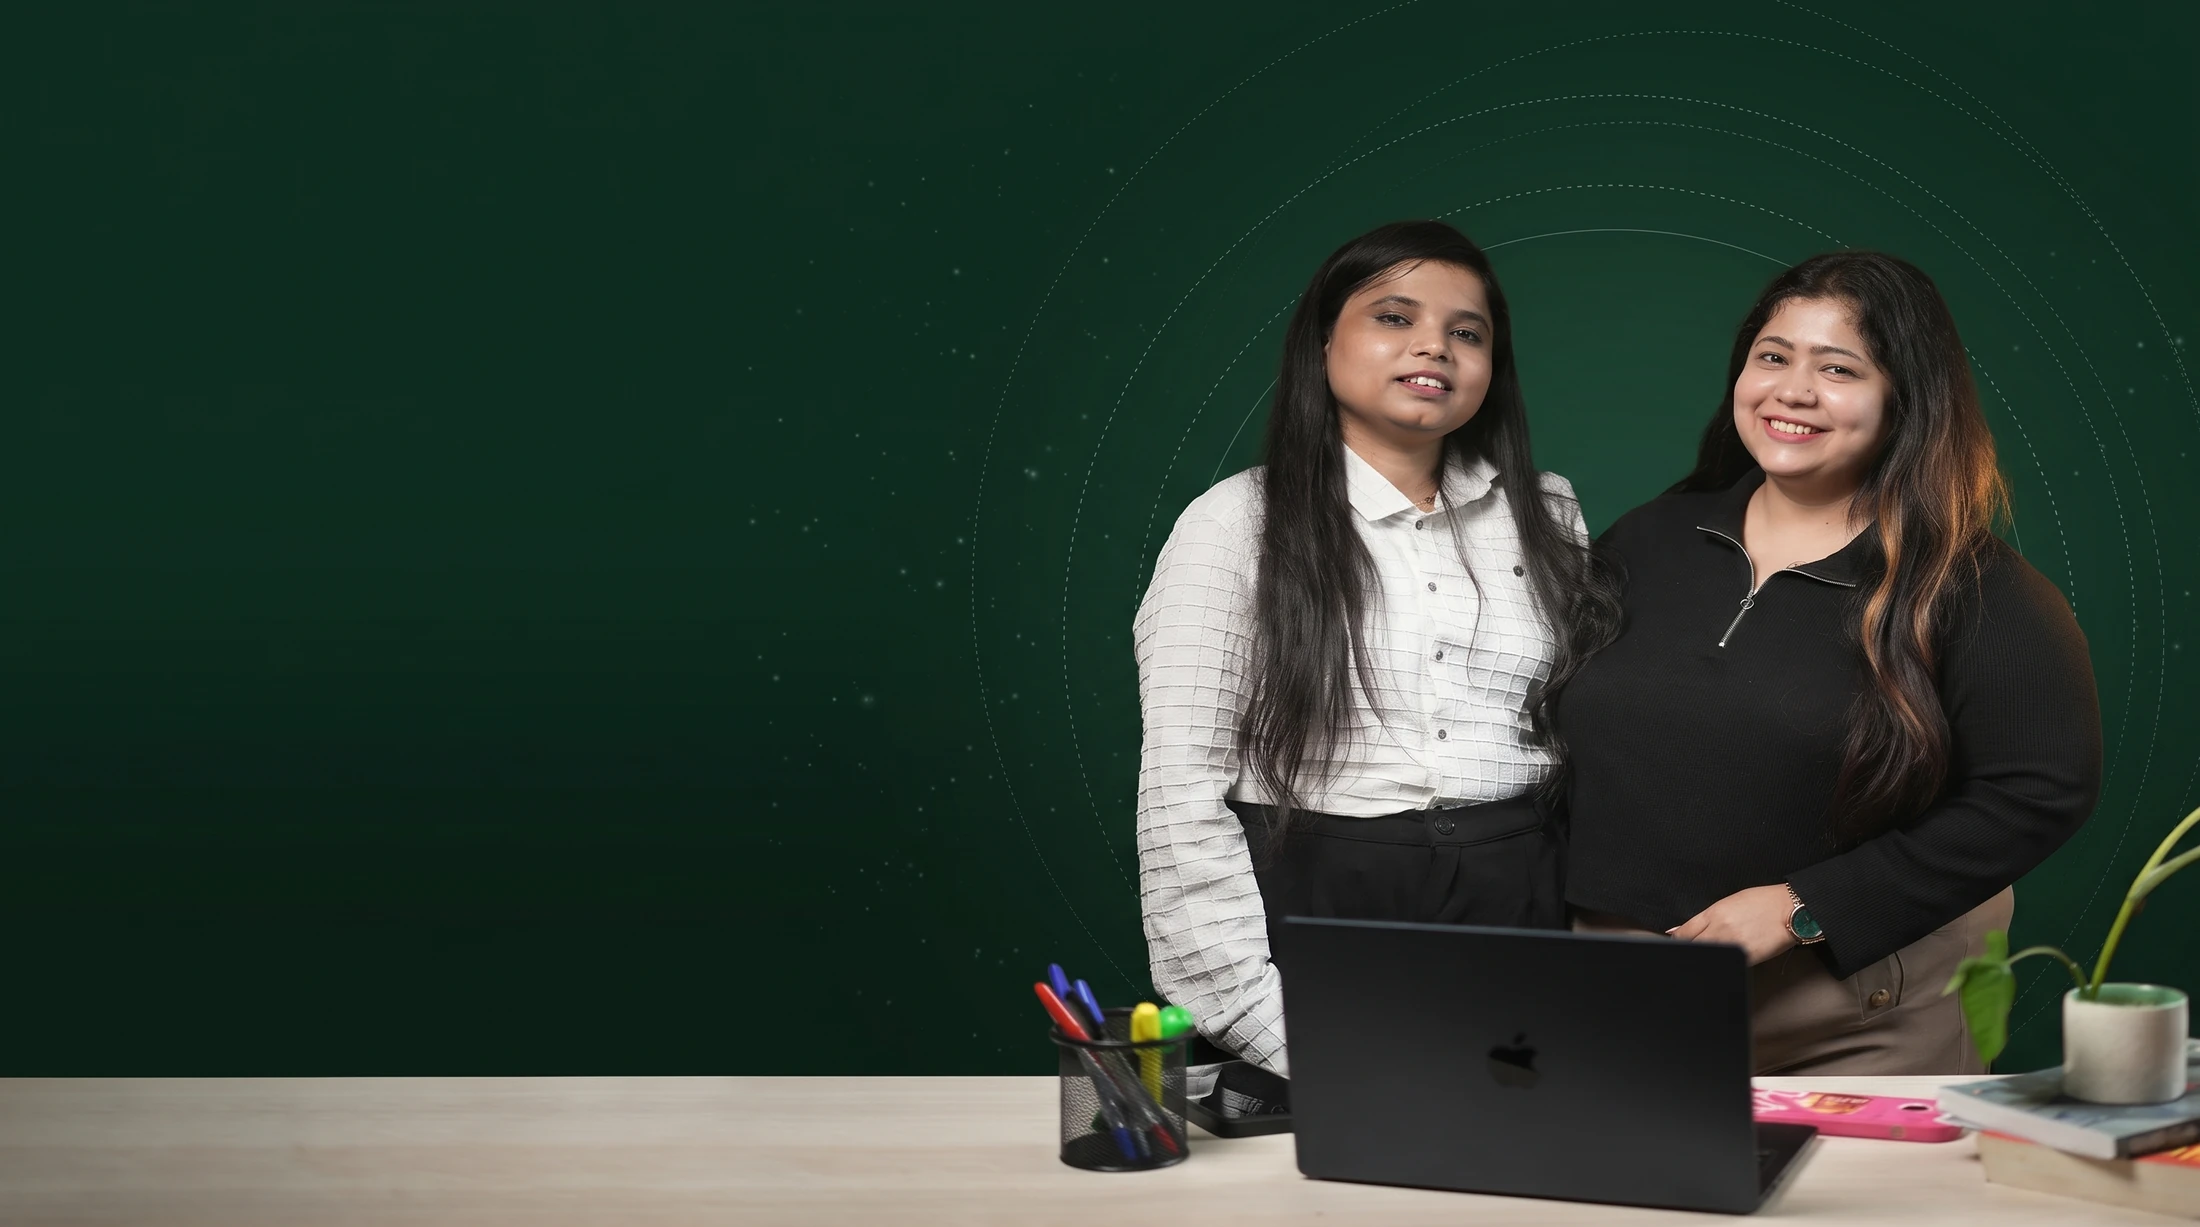
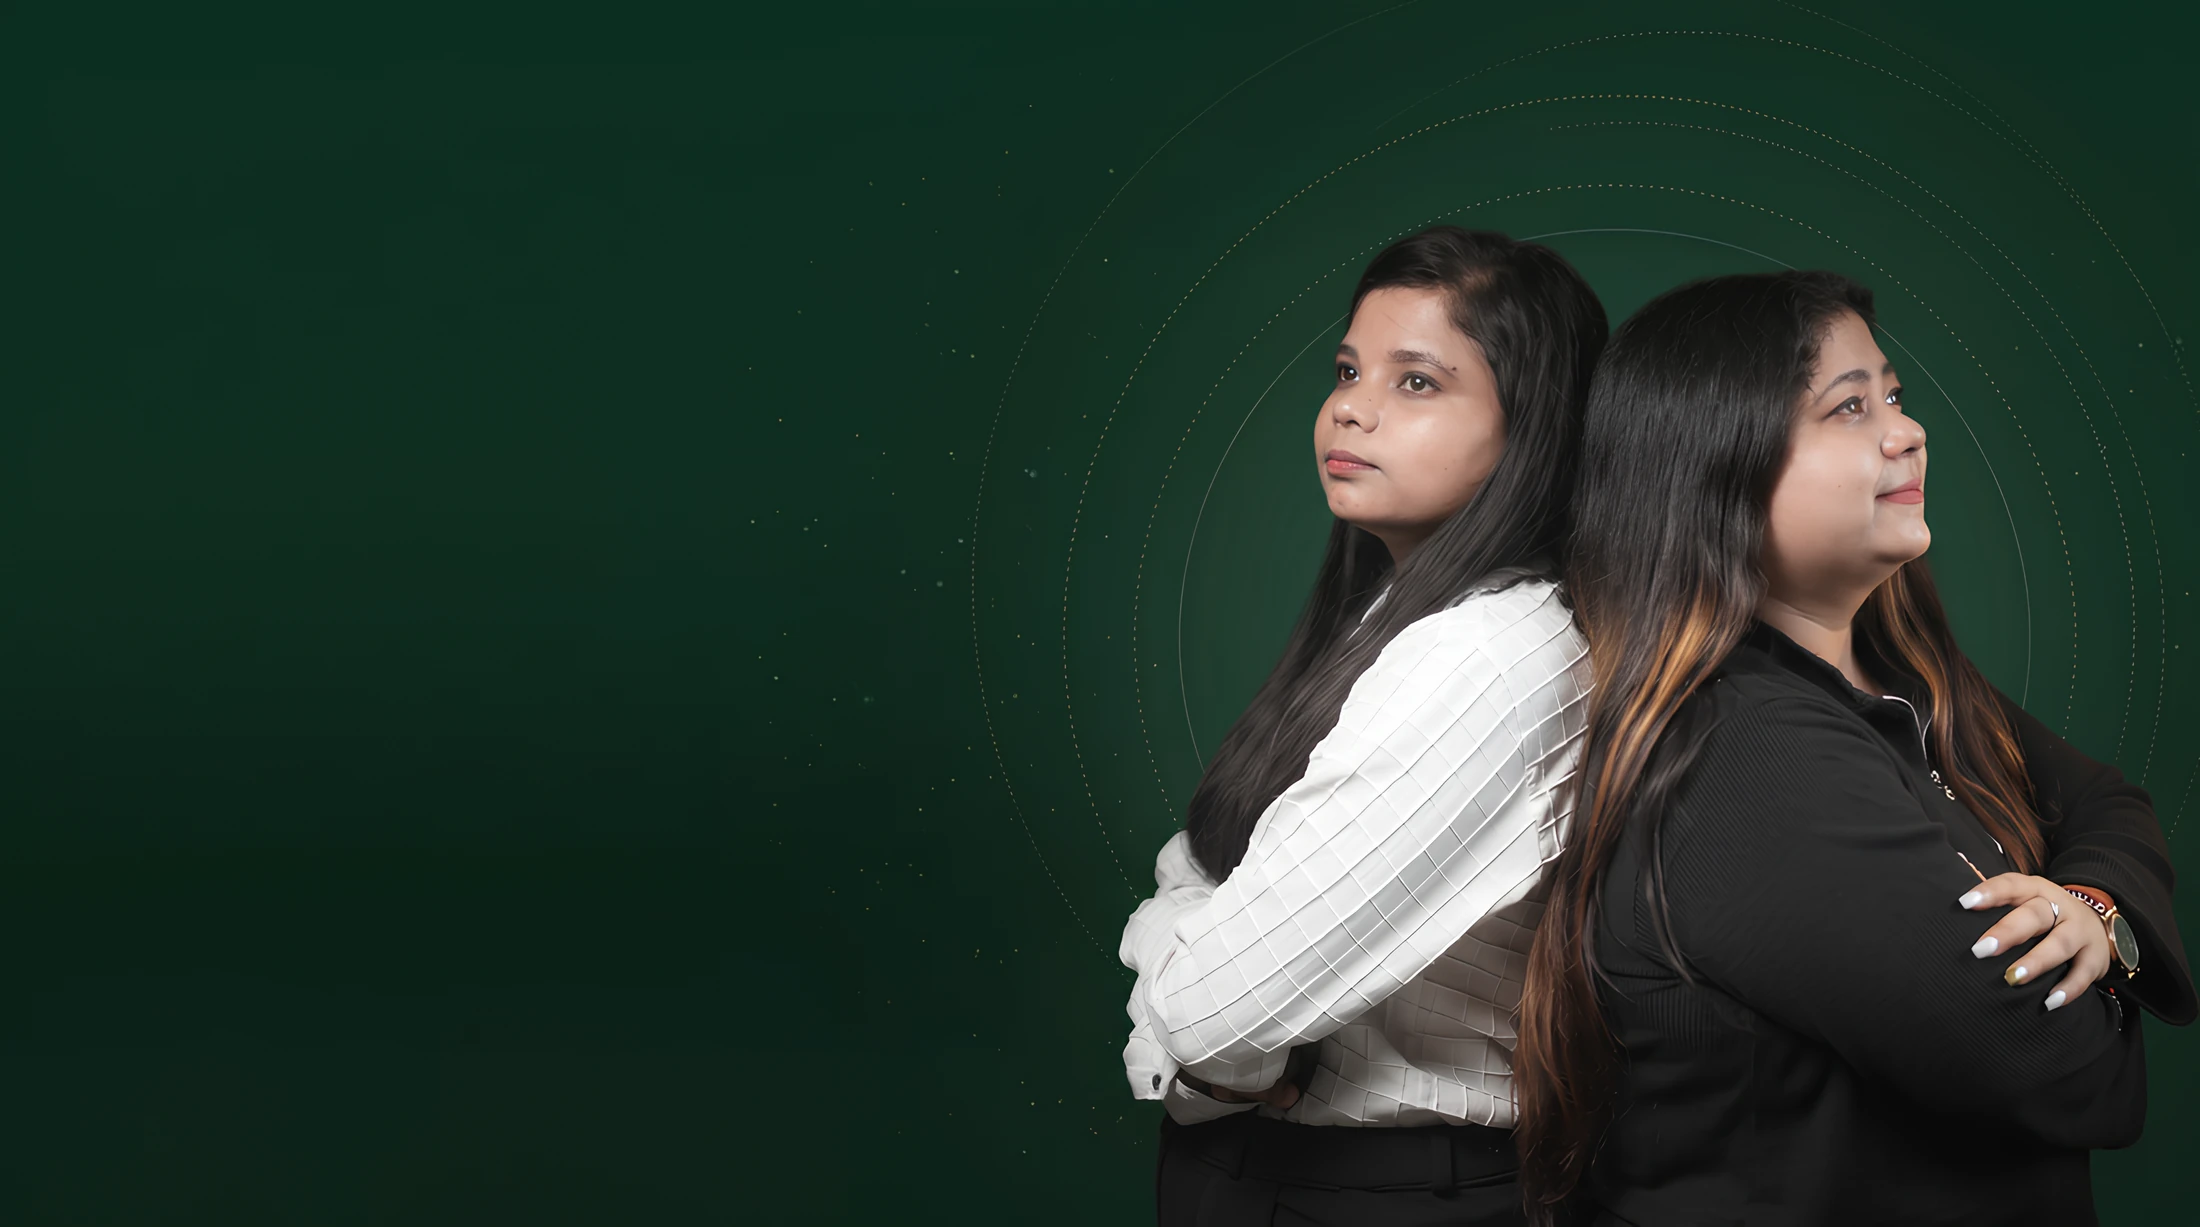
chore: update hero visuals with responsive 9:16 mobile portrait, contact details, and Surbhi credentials

diff --git a/src/scenes/Hero.tsx b/src/scenes/Hero.tsx
@@ -41,20 +41,6 @@ export default function HeroSection() {
         },
       );
 
-      // Mobile card entrance
-      gsap.fromTo(
-        '.hero-mobile-card',
-        { opacity: 0, y: 28, scale: 0.98 },
-        {
-          opacity: 1,
-          y: 0,
-          scale: 1,
-          duration: 1.1,
-          ease: 'cubic-bezier(0.22, 1, 0.36, 1)',
-          delay: 0.8,
-        },
-      );
-
       // Scroll indicator pulse
       gsap.to('.hero-scroll', {
         y: 6,
@@ -75,38 +61,46 @@ export default function HeroSection() {
       <section
         ref={root}
         id="home"
-        className="relative min-h-[100dvh] w-full overflow-hidden bg-[#0B221A] flex flex-col justify-between"
+        className="relative min-h-[max(100dvh,820px)] lg:min-h-[100dvh] w-full overflow-hidden bg-[#0B221A] flex flex-col justify-between"
       >
-        {/* ── 1. Desktop Full-Bleed 16:9 Background Image (>= lg screens) ─── */}
-        <div className="hidden lg:block absolute inset-0 z-0">
-          <img
-            src="/hero-bg.webp"
-            alt="Dt. Radha Mishra and Dt. Surbhi Kumari at The Diets consultation desk"
-            width="2200"
-            height="1227"
-            className="w-full h-full object-cover object-right-bottom"
-            style={{ objectPosition: 'right bottom' }}
-            loading="eager"
-            // @ts-ignore
-            fetchpriority="high"
-            decoding="async"
+        {/* ── 1. Responsive Full-Bleed Background (9:16 Mobile / 16:9 Desktop) ─── */}
+        <div className="absolute inset-0 z-0 pointer-events-none">
+          <picture className="hero-picture-wrap lg:block w-full h-full">
+            <source media="(max-width: 1023px)" srcSet="/hero-bg-mobile.webp" width="1080" height="1935" />
+            <img
+              src="/hero-bg.webp"
+              alt="Dt. Radha Mishra and Dt. Surbhi Kumari at The Diets consultation desk"
+              width="2200"
+              height="1227"
+              className="hero-picture-img lg:w-full lg:h-full lg:object-cover lg:object-right-bottom"
+              loading="eager"
+              // @ts-ignore
+              fetchpriority="high"
+              decoding="async"
+            />
+          </picture>
+
+          {/* Subtle top emerald blend on mobile for clean text legibility */}
+          <div
+            className="lg:hidden absolute inset-x-0 top-0 h-[42%] z-[1] bg-gradient-to-b from-[#0B221A] via-[#0B221A]/50 to-transparent pointer-events-none"
+            aria-hidden="true"
           />
 
           {/* Subtle Left-to-Right Gradient Overlay on desktop */}
           <div
-            className="absolute inset-0 z-[1] bg-gradient-to-r from-[#0B221A] via-[#0B221A]/80 to-transparent lg:via-transparent pointer-events-none"
+            className="hidden lg:block absolute inset-0 z-[1] bg-gradient-to-r from-[#0B221A] via-[#0B221A]/80 to-transparent lg:via-transparent pointer-events-none"
             aria-hidden="true"
           />
 
           {/* Subtle bottom ground vignette */}
           <div
-            className="absolute inset-x-0 bottom-0 h-28 z-[2] bg-gradient-to-t from-[#0B221A] to-transparent pointer-events-none"
+            className="absolute inset-x-0 bottom-0 h-20 lg:h-28 z-[2] bg-gradient-to-t from-[#0B221A] to-transparent pointer-events-none"
             aria-hidden="true"
           />
         </div>
 
         {/* ── 2. Content Layout Grid (Responsive on all screen sizes) ───── */}
-        <div className="relative z-10 mx-auto flex flex-1 w-full max-w-7xl flex-col items-start justify-center px-6 pt-24 pb-28 md:px-12 md:pt-32 lg:flex-row lg:items-center lg:justify-between lg:pb-16">
+        <div className="relative z-10 mx-auto flex flex-1 w-full max-w-7xl flex-col items-start justify-start lg:justify-center px-6 pt-[88px] sm:pt-28 pb-12 md:px-12 md:pt-32 lg:flex-row lg:items-center lg:justify-between lg:pb-16">
 
           {/* ── Left Column Content (w-full lg:w-[48%]) ─────────────────── */}
           <div className="relative z-10 w-full lg:w-[48%] flex flex-col justify-center text-left">
@@ -167,13 +161,13 @@ export default function HeroSection() {
             </h1>
 
             {/* Sub-headline / Body */}
-            <p className="hero-fade mt-5 max-w-xl text-base leading-relaxed text-[#AEB7B0] md:text-[17px] font-sans font-normal">
+            <p className="hero-fade mt-4 lg:mt-5 max-w-xl text-base leading-relaxed text-[#AEB7B0] md:text-[17px] font-sans font-normal">
               Calm, practical clinical nutrition paced around your real schedule and
               kitchen—led 1-on-1 by Radha Mishra and Surbhi Kumari.
             </p>
 
             {/* CTAs */}
-            <div className="hero-fade mt-8 flex flex-col items-start gap-4 sm:flex-row sm:items-center">
+            <div className="hero-fade mt-6 lg:mt-8 flex flex-col items-start gap-3 sm:gap-4 sm:flex-row sm:items-center">
               {/* Primary CTA: Translucent glass pill */}
               <Link
                 to="/book"
@@ -196,7 +190,7 @@ export default function HeroSection() {
             </div>
 
             {/* Subtext: Meet the Dietitians */}
-            <div className="hero-fade mt-5">
+            <div className="hero-fade mt-3.5 lg:mt-5">
               <a
                 href="#meet"
                 className="group inline-flex items-center gap-1.5 text-xs text-[#AEB7B0]/65 transition-colors duration-300 hover:text-[#AEB7B0]"
@@ -205,39 +199,6 @@ export default function HeroSection() {
                 <span className="text-xs transition-transform duration-300 group-hover:translate-y-0.5">↓</span>
               </a>
             </div>
-          </div>
-
-          {/* ── 3. Dedicated Mobile & Tablet Visual Card (< lg screens) ─── */}
-          {/* Prominently showcases both dietitians on mobile view without awkward cropping */}
-          <div className="hero-mobile-card block lg:hidden w-full max-w-md mt-8 mx-auto">
-            <div className="relative h-[270px] sm:h-[330px] w-full rounded-2xl overflow-hidden border border-white/20 shadow-[0_20px_50px_rgba(0,0,0,0.7)] bg-[#071914]">
-              <img
-                src="/hero-bg.webp"
-                alt="Dt. Surbhi Kumari and Dt. Radha Mishra at The Diets consultation desk"
-                width="2200"
-                height="1227"
-                className="w-full h-full object-cover"
-                style={{ objectPosition: '77% 25%' }}
-                loading="eager"
-                // @ts-ignore
-                fetchpriority="high"
-                decoding="async"
-              />
-
-              {/* Gradient vignette on card */}
-              <div
-                className="absolute inset-0 bg-gradient-to-t from-[#0B221A]/90 via-transparent to-transparent pointer-events-none"
-                aria-hidden="true"
-              />
-            </div>
-
-            {/* Dietitian name tag under mobile card */}
-            <p
-              className="mt-3 text-center text-xs tracking-wider text-[#AEB7B0]/80"
-              style={{ fontFamily: "'Fraunces', Georgia, serif" }}
-            >
-              Radha Mishra &amp; Surbhi Kumari
-            </p>
           </div>
         </div>
 

diff --git a/src/data/siteConfig.ts b/src/data/siteConfig.ts
@@ -11,15 +11,15 @@ export const siteConfig = {
     tagline: "Your Health, Your Goals, Your Personalised Nutrition Journey.",
     logoUrl: "/logo.png",
     faviconUrl: "/favicon.png",
-    whatsappUrl: "https://wa.me/918340735168?text=Hi%2C%20I%20would%20like%20to%20book%20a%20consultation%20with%20The%20Diets",
-    whatsappDisplay: "+91 83407 35168",
-    email: "thedeits4you@gmail.com",
+    whatsappUrl: "https://wa.me/919296047483?text=Hi%2C%20I%20would%20like%20to%20book%20a%20consultation%20with%20The%20Diets.",
+    whatsappDisplay: "+91 92960 47483",
+    email: "thediets4you@gmail.com",
   },
   contact: {
-    phone: "+91 83407 35168",
-    phoneRaw: "+918340735168",
-    email: "thedeits4you@gmail.com",
-    whatsappUrl: "https://wa.me/918340735168?text=Hi%2C%20I%20would%20like%20to%20book%20a%20consultation%20with%20The%20Diets",
+    phone: "+91 92960 47483",
+    phoneRaw: "+919296047483",
+    email: "thediets4you@gmail.com",
+    whatsappUrl: "https://wa.me/919296047483?text=Hi%2C%20I%20would%20like%20to%20book%20a%20consultation%20with%20The%20Diets.",
   },
   social: {
     instagram: "https://www.instagram.com/thedietsforyou_?dlrf=MXgxOG0xcWt4YzF3Zw==",
@@ -96,13 +96,13 @@ export const siteConfig = {
       slug: 'surbhi',
       name: 'Dt. Surbhi Kumari',
       title: 'Co-Founder | Dietitian & Nutrition Professional',
-      credentials: 'B.Sc., M.Sc., Pursuing Ph.D.',
+      credentials: 'B.Sc., M.Sc.',
       experience: '3+ Years',
       portraitSrc: '/images/surbhi-kumari.webp',
       shortFocus:
         'Specialising in personalised diet planning and lifestyle management for long-term wellness.',
       bio: 'Dt. Surbhi Kumari focuses on personalised diet planning and lifestyle management, helping individuals make healthier choices through practical nutritional guidance. Her goal is to make healthy eating simple, personalised, and sustainable for long-term wellness.',
-      qualifications: ['B.Sc., M.Sc., Pursuing Ph.D.'],
+      qualifications: ['B.Sc., M.Sc.'],
       focusTags: [
         'Lifestyle & Weight Management',
         'Diabetes & Metabolic Health',
@@ -213,7 +213,7 @@ export const siteConfig = {
     },
     {
       q: 'What is your rescheduling policy?',
-      a: 'We understand that schedules can change. You can reschedule your 1-on-1 consultation free of cost by notifying us on WhatsApp (+91 83407 35168) at least 12 hours before your scheduled slot. Sessions missed without prior notice or cancelled within 4 hours of the appointment time may be counted as completed.',
+      a: 'We understand that schedules can change. You can reschedule your 1-on-1 consultation free of cost by notifying us on WhatsApp (+91 92960 47483) at least 12 hours before your scheduled slot. Sessions missed without prior notice or cancelled within 4 hours of the appointment time may be counted as completed.',
     },
     {
       q: 'What is your refund policy?',

diff --git a/src/index.css b/src/index.css
@@ -297,6 +297,35 @@
   }
 }
 
+@media (max-width: 1023px) {
+  .hero-picture-wrap {
+    display: flex;
+    align-items: flex-end;
+    justify-content: center;
+  }
+  .hero-picture-img {
+    width: auto;
+    height: auto;
+    max-width: 100%;
+    max-height: 100%;
+    object-fit: contain;
+    object-position: bottom center;
+    -webkit-mask-image: linear-gradient(to bottom, transparent 0%, #000 22%, #000 100%);
+    mask-image: linear-gradient(to bottom, transparent 0%, #000 22%, #000 100%);
+  }
+}
+
+@media (min-width: 768px) and (max-width: 1023px) {
+  .hero-picture-img {
+    -webkit-mask-image: linear-gradient(to bottom, transparent 0%, #000 22%, #000 100%),
+      linear-gradient(to right, transparent 0%, #000 6%, #000 94%, transparent 100%);
+    -webkit-mask-composite: source-in;
+    mask-image: linear-gradient(to bottom, transparent 0%, #000 22%, #000 100%),
+      linear-gradient(to right, transparent 0%, #000 6%, #000 94%, transparent 100%);
+    mask-composite: intersect;
+  }
+}
+
 @media (prefers-reduced-motion: reduce) {
   * {
     animation-duration: 0.001ms !important;

diff --git a/src/pages/BookPage.tsx b/src/pages/BookPage.tsx
@@ -191,7 +191,7 @@ export default function BookPage() {
 • Selected Program: ${selectedProgram}
 • Primary Goal / Note: ${notes}`;
 
-    const whatsappLink = `https://wa.me/918340735168?text=${encodeURIComponent(message)}`;
+    const whatsappLink = `https://wa.me/919296047483?text=${encodeURIComponent(message)}`;
 
     // Try opening WhatsApp in a new tab if supported
     try {
@@ -233,7 +233,7 @@ export default function BookPage() {
 • Goal / Note: ${notes || 'General'}`
       : 'Hi, I would like to schedule a consultation with The Diets!';
 
-    const whatsappUrl = `https://wa.me/918340735168?text=${encodeURIComponent(directMsg)}`;
+    const whatsappUrl = `https://wa.me/919296047483?text=${encodeURIComponent(directMsg)}`;
 
     return (
       <>

diff --git a/index.html b/index.html
@@ -40,7 +40,8 @@
     />
     <meta name="twitter:image" content="https://thedeits.vercel.app/og-image.jpg" />
 
-    <link rel="preload" as="image" href="/hero-bg.webp" type="image/webp" fetchpriority="high" />
+    <link rel="preload" as="image" href="/hero-bg-mobile.webp" type="image/webp" media="(max-width: 1023px)" fetchpriority="high" />
+    <link rel="preload" as="image" href="/hero-bg.webp" type="image/webp" media="(min-width: 1024px)" fetchpriority="high" />
 
     <link rel="preconnect" href="https://fonts.googleapis.com" />
     <link rel="preconnect" href="https://fonts.gstatic.com" crossorigin />

diff --git a/src/data/seoConfig.ts b/src/data/seoConfig.ts
@@ -239,12 +239,12 @@ export function getJsonLd(path: string) {
       {
         '@type': 'EducationalOccupationalCredential',
         credentialCategory: 'degree',
-        name: 'M.Sc. Food and Nutrition',
+        name: 'B.Sc. Food and Nutrition',
       },
       {
         '@type': 'EducationalOccupationalCredential',
         credentialCategory: 'degree',
-        name: 'Doctoral Research Scholar (Pursuing Ph.D.)',
+        name: 'M.Sc. Food and Nutrition',
       },
     ],
     knowsAbout: [
